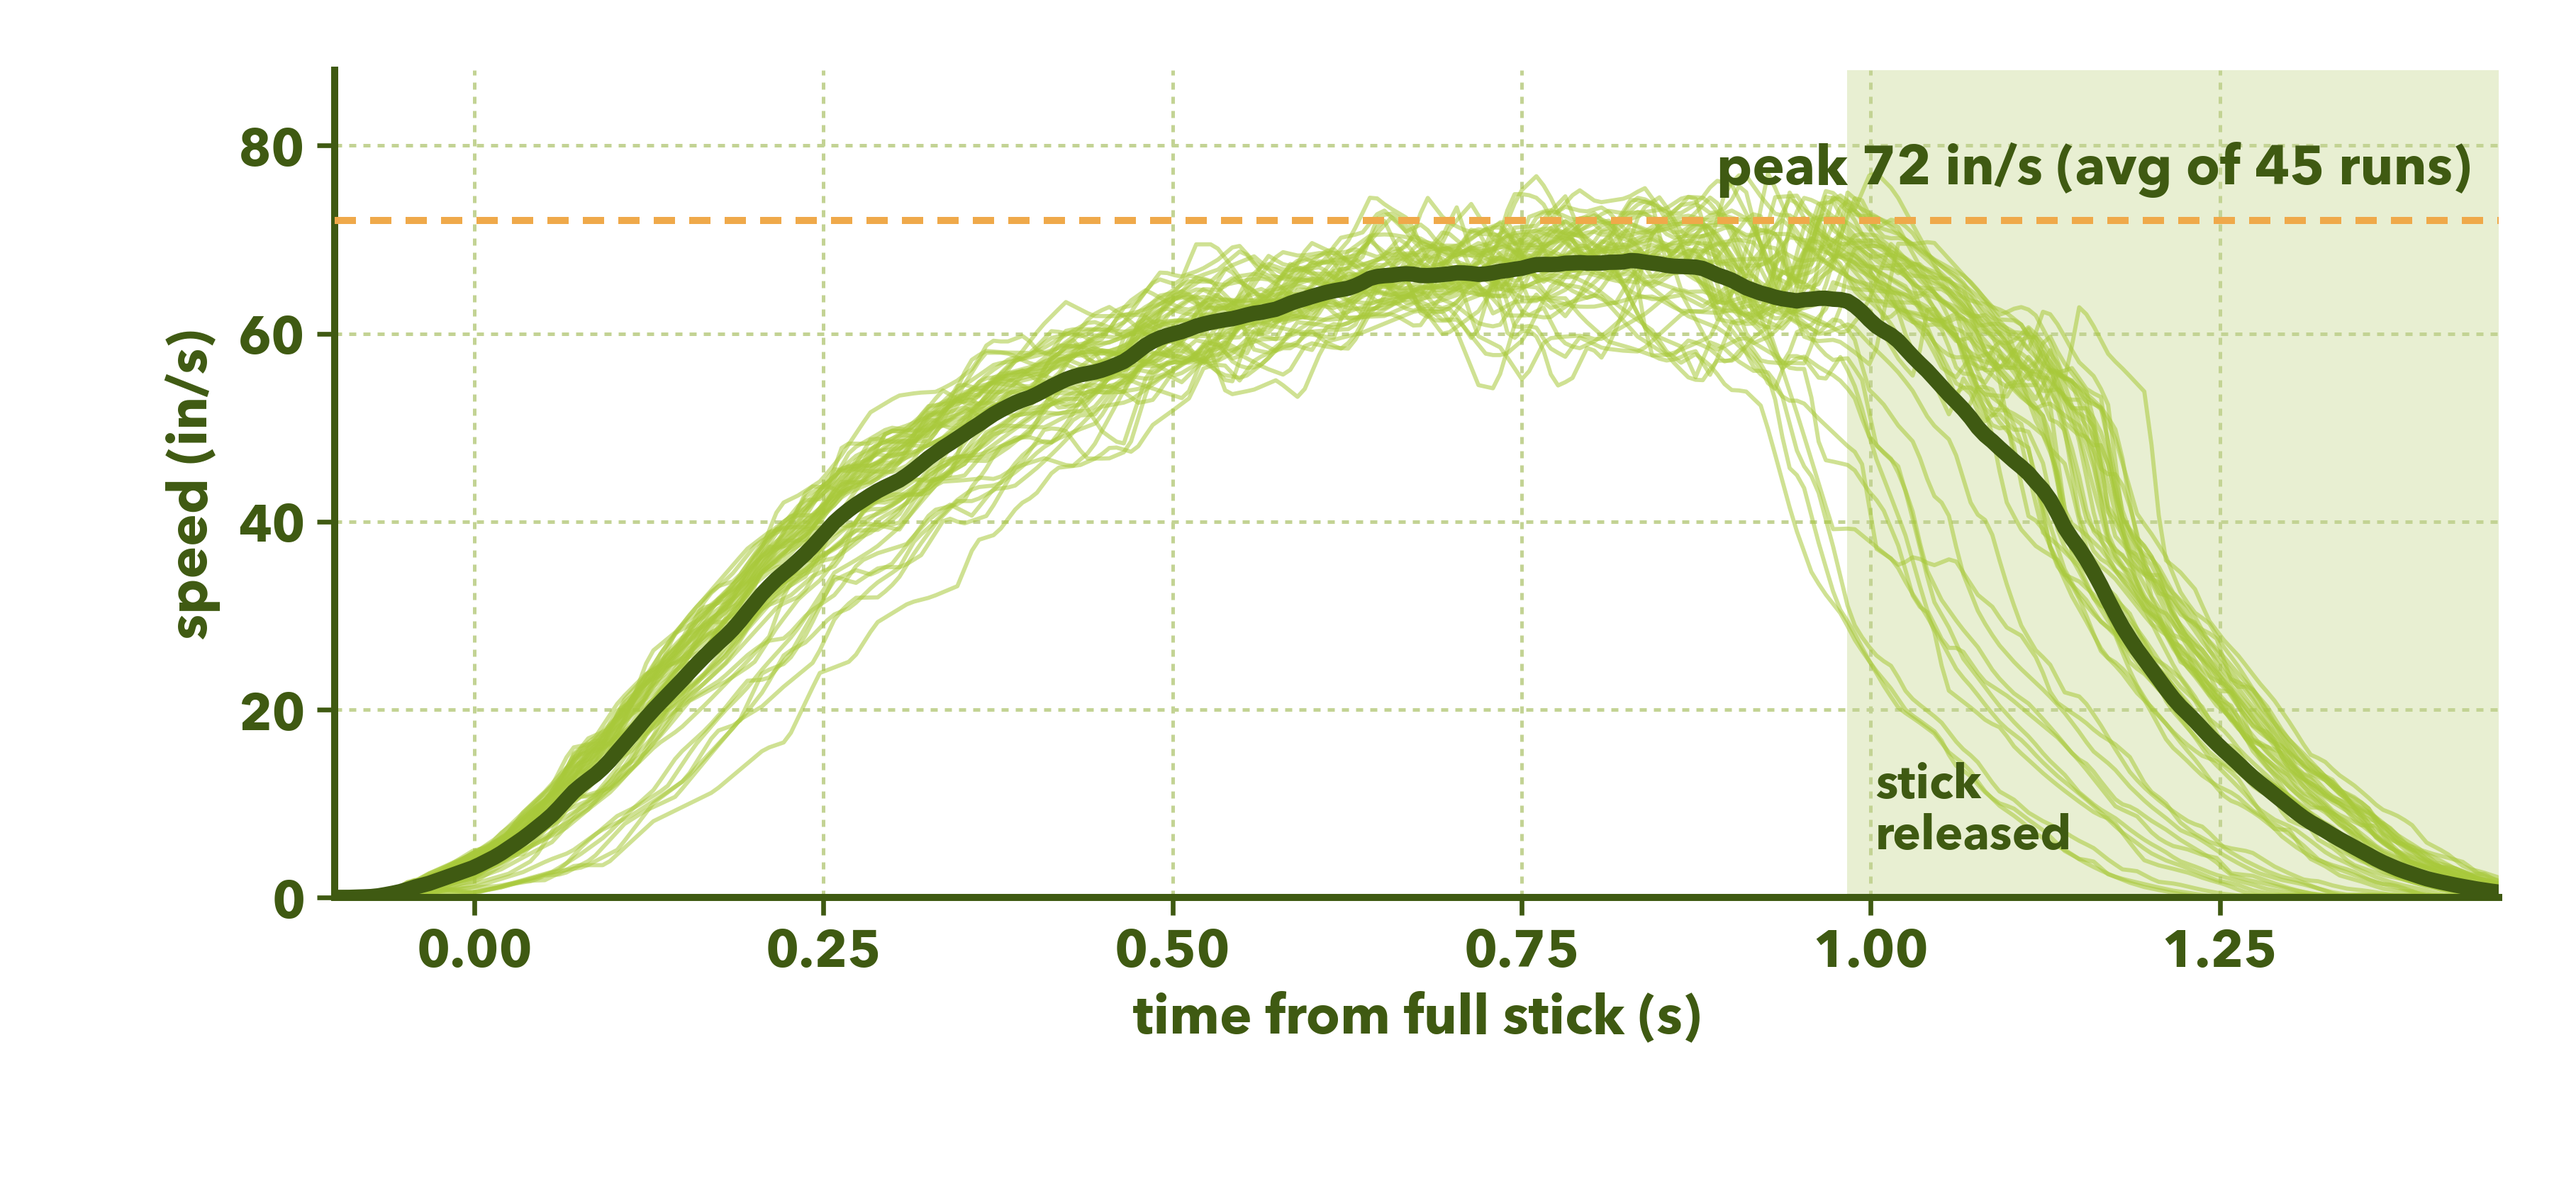
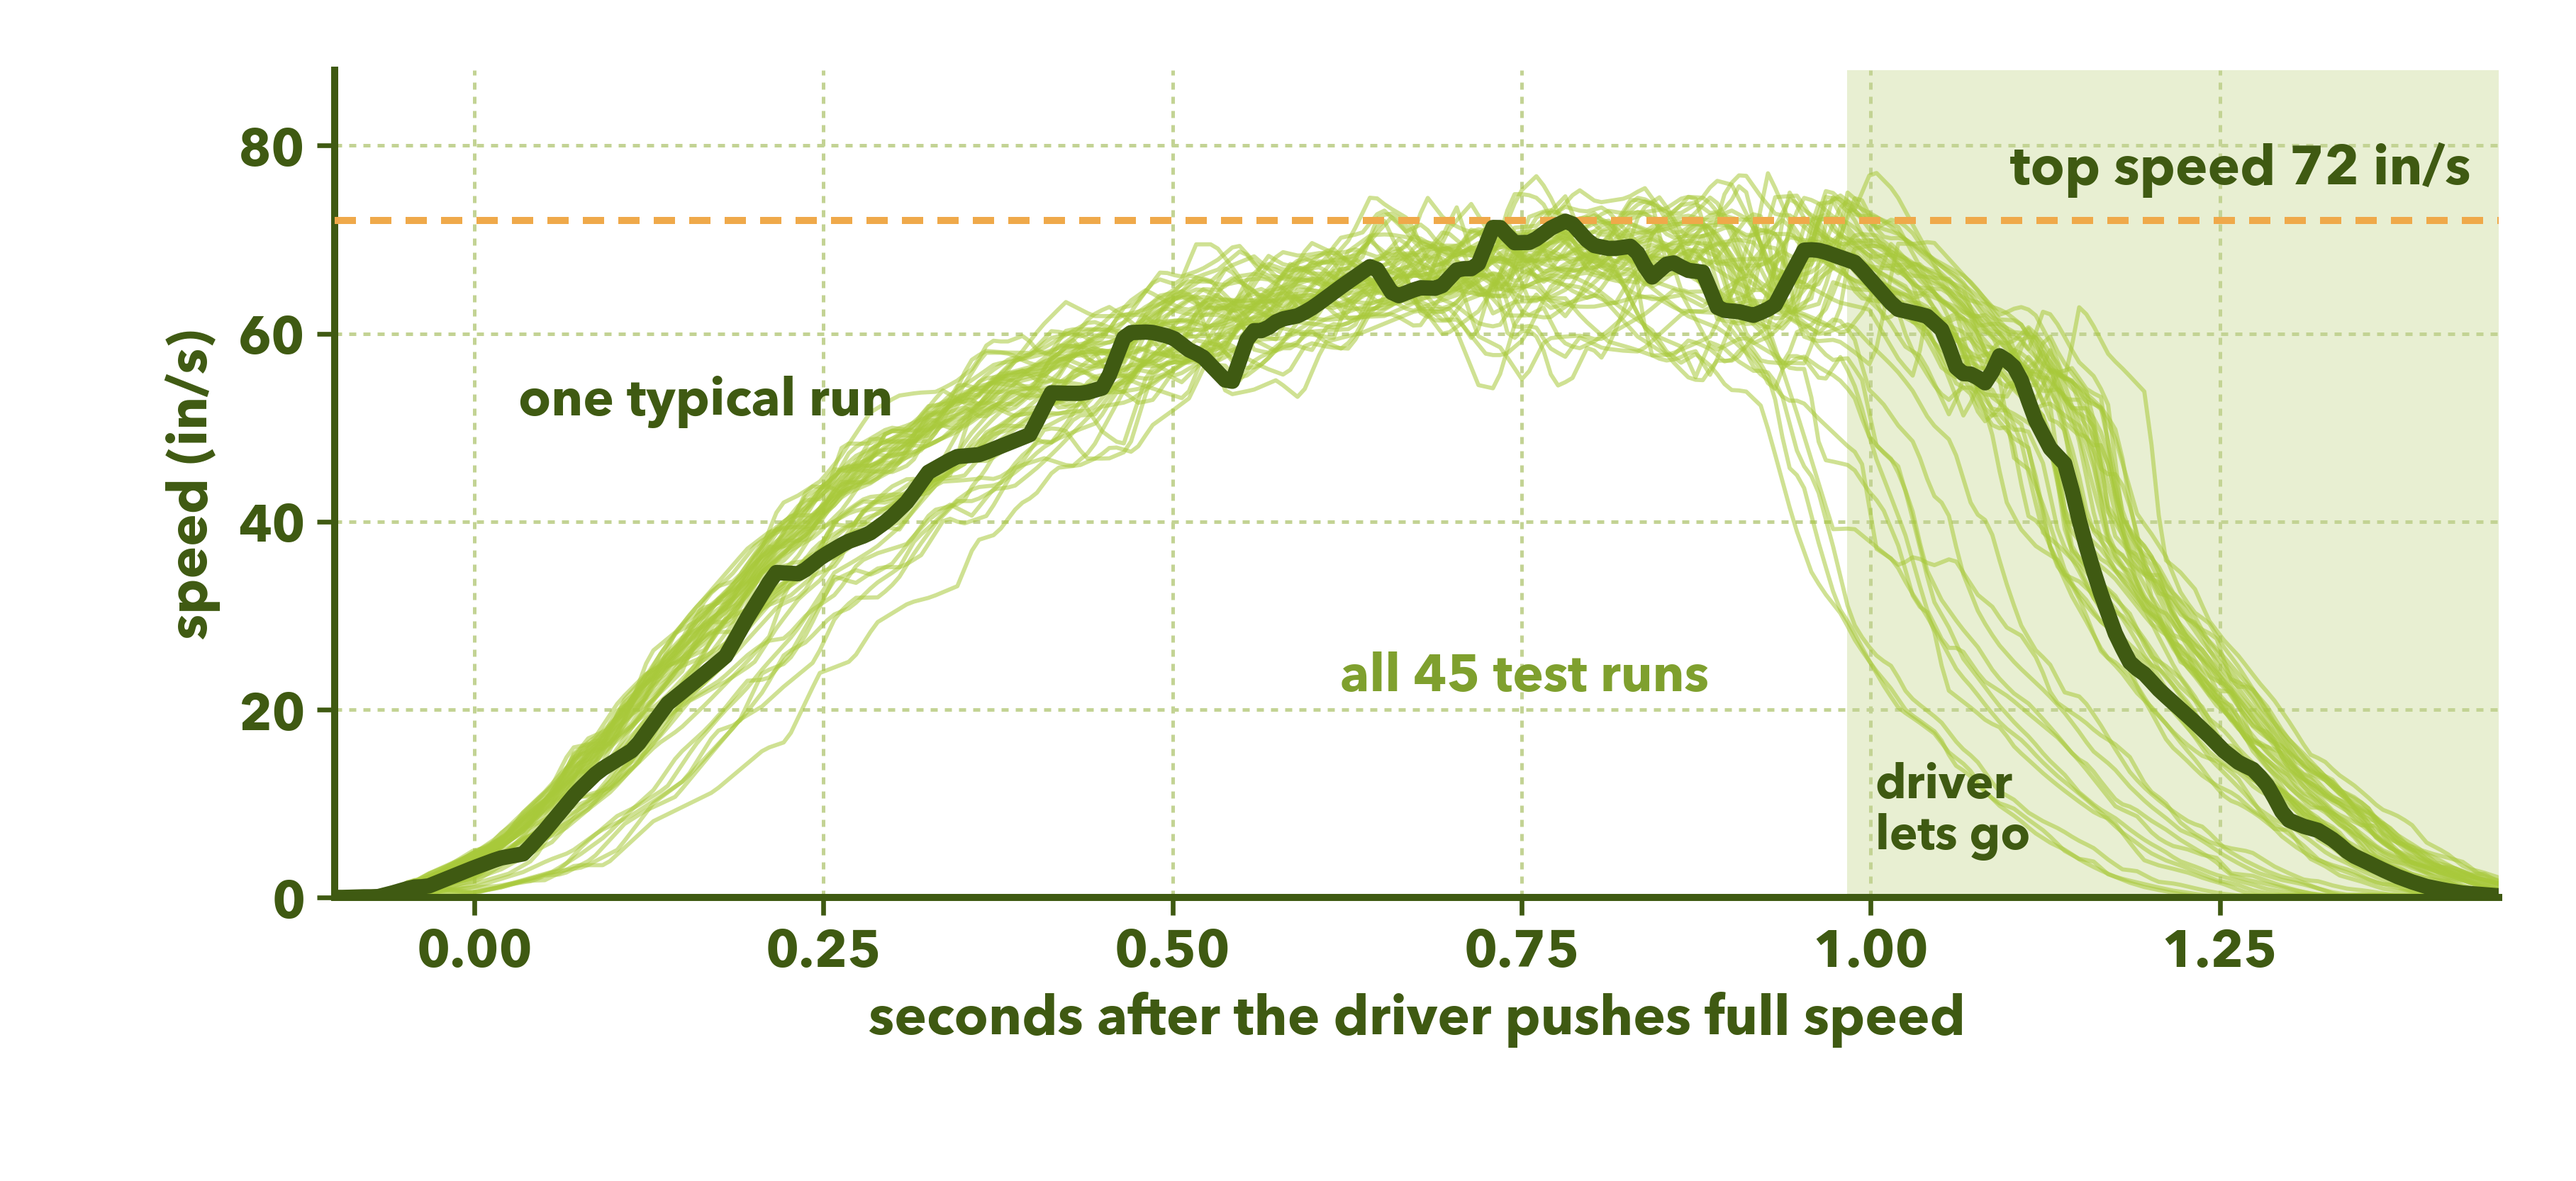
Portfolio swerve Step 4 charts: plain-language labels for FTC judges (tool)
Speed chart: one typical run (the median-top-speed run, 72.1 in/s) drawn bold instead of the
time-averaged curve, which peaked ~5 in/s under the per-run top speed and read as a contradiction;
labels 'seconds after the driver pushes full speed' / 'driver lets go'.
Iterate chart: before / after bars of the same metric (12.0 vs 7.3 deg/s, n=15 / 10, 39% less),
no tuning jargon. Data and statistics unchanged.

diff --git a/tools/portfolio/swerve/speed_testing.py b/tools/portfolio/swerve/speed_testing.py
@@ -65,12 +65,15 @@ ax = fig.add_axes([0.13, 0.24, 0.84, 0.70])
 grid_t = np.linspace(-0.1, 1.45, 300)
 curves = np.array([np.interp(grid_t, r["t"], np.nan_to_num(r["sp"]), left=np.nan, right=np.nan) for r in runs])
 for c in curves: ax.plot(grid_t, c, color=LIME, lw=0.35, alpha=0.55, zorder=2)
-ax.plot(grid_t, np.nanmean(curves, axis=0), color=DARK, lw=1.3, zorder=4, solid_capstyle="round")
+typ = int(np.argmin(np.abs(peak - np.median(peak))))   # the run whose top speed is the median one
+ax.plot(grid_t, curves[typ], color=DARK, lw=1.3, zorder=4, solid_capstyle="round")
+ax.text(0.30, 50, "one typical run", fontsize=4.4, color=DARK, fontweight="bold", ha="right", va="bottom")
+ax.text(0.62, 22, f"all {len(runs)} test runs", fontsize=4.4, color="#7FA02E", fontweight="bold", ha="left")
 ax.axhline(peak.mean(), color=ORANGE, lw=0.6, ls=(0, (3, 2)), zorder=3)
-ax.text(1.43, peak.mean() + 2.5, f"peak {peak.mean():.0f} in/s (avg of {len(runs)} runs)", ha="right", va="bottom", fontsize=4.6, color=DARK, fontweight="bold")
+ax.text(1.43, peak.mean() + 2.5, f"top speed {peak.mean():.0f} in/s", ha="right", va="bottom", fontsize=4.6, color=DARK, fontweight="bold")
 rel = np.mean([r["rel"] for r in runs])
 ax.axvspan(rel, 1.45, color=FILL, alpha=0.6, lw=0, zorder=1)
-ax.text(rel + 0.02, 4, "stick\nreleased", fontsize=4.0, color=DARK, va="bottom", linespacing=1.1)
+ax.text(rel + 0.02, 4, "driver\nlets go", fontsize=4.0, color=DARK, va="bottom", linespacing=1.1)
 ax.set_xlim(-0.1, 1.45); ax.set_ylim(0, 88)
 ax.set_xticks([0, 0.25, 0.5, 0.75, 1.0, 1.25]); ax.set_yticks([0, 20, 40, 60, 80])
 ax.grid(True, color=GRID, lw=0.3, ls=(0, (2, 2)))
@@ -78,24 +81,26 @@ for s in ("top", "right"): ax.spines[s].set_visible(False)
 for s in ("left", "bottom"): ax.spines[s].set_color(DARK); ax.spines[s].set_linewidth(0.6)
 ax.tick_params(colors=DARK, labelsize=4.4, length=1.5, width=0.4, pad=1)
 for tl in ax.get_xticklabels() + ax.get_yticklabels(): tl.set_fontweight("bold")
-ax.set_xlabel("time from full stick (s)", fontsize=4.6, color=DARK, fontweight="bold", labelpad=1)
+ax.set_xlabel("seconds after the driver pushes full speed", fontsize=4.6, color=DARK, fontweight="bold", labelpad=1)
 ax.set_ylabel("speed (in/s)", fontsize=4.6, color=DARK, fontweight="bold", labelpad=1.5)
 fig.savefig(os.path.join(out, "swerve_speed_vs_time.png"), transparent=True); plt.close(fig)
 
-# ---- chart 2: iterate, steering floor A/B ----
+# ---- chart 2: iterate, plain before / after for judges ----
 fig = plt.figure(figsize=(218 / 72, 50 / 72), dpi=1200)
-ax = fig.add_axes([0.25, 0.30, 0.72, 0.62])
+ax = fig.add_axes([0.14, 0.30, 0.62, 0.66])
 rng = np.random.default_rng(3)
-for yv, arr, col, lab in ((1, A, "#9DB55A", "floor 0.60 (old)"), (0, B, DARK, "floor 0.80 (shipped)")):
-    ax.scatter(arr, yv + rng.uniform(-0.13, 0.13, len(arr)), s=5, color=col, edgecolor="white", linewidth=0.4, zorder=3)
-    ax.plot([arr.mean()] * 2, [yv - 0.3, yv + 0.3], color=ORANGE, lw=1.1, zorder=4, solid_capstyle="round")
-    ax.text(-0.02, yv, f"{lab}\nmean {arr.mean():.1f}, n={len(arr)}", transform=ax.get_yaxis_transform(), ha="right", va="center",
-            fontsize=4.2, color=DARK, fontweight="bold", linespacing=1.15)
-ax.set_ylim(-0.55, 1.55); ax.set_yticks([]); ax.set_xlim(0, 22); ax.set_xticks([0, 5, 10, 15, 20])
-ax.grid(True, axis="x", color=GRID, lw=0.3, ls=(0, (2, 2)))
-for s in ("top", "right", "left"): ax.spines[s].set_visible(False)
+for yv, arr, col, lab in ((1, A, "#B9CC86", "BEFORE"), (0, B, DARK, "AFTER")):
+    ax.barh(yv, arr.mean(), height=0.62, color=col, zorder=2)
+    ax.text(-0.02, yv, lab, transform=ax.get_yaxis_transform(), ha="right", va="center", fontsize=5.2, color=DARK, fontweight="bold")
+    ax.text(arr.mean() + 0.3, yv, f"{arr.mean():.1f}\u00b0/s  ({len(arr)} runs)", ha="left", va="center", fontsize=5.0, color=DARK, fontweight="bold")
+cut = (A.mean() - B.mean()) / A.mean()
+ax.text(0.985, 0.62, f"{cut:.0%}\nless wobble", transform=fig.transFigure, ha="right", va="center", fontsize=7.0, color=ORANGE, fontweight="bold", linespacing=0.95)
+ax.set_ylim(-0.6, 1.6); ax.set_yticks([]); ax.set_xlim(0, 16); ax.set_xticks([0, 5, 10, 15])
+ax.grid(True, axis="x", color=GRID, lw=0.3, ls=(0, (2, 2))); ax.set_axisbelow(True)
+for sp_ in ("top", "right", "left"): ax.spines[sp_].set_visible(False)
 ax.spines["bottom"].set_color(DARK); ax.spines["bottom"].set_linewidth(0.6)
 ax.tick_params(colors=DARK, labelsize=4.4, length=1.5, width=0.4, pad=1)
 for tl in ax.get_xticklabels(): tl.set_fontweight("bold")
-ax.set_xlabel(f"chassis wobble at full speed (deg/s yaw)  ·  \u2212{abs(B.mean() - A.mean()):.1f} deg/s, p = {p:.4f}", fontsize=4.4, color=DARK, fontweight="bold", labelpad=1)
+ax.set_xlabel("robot twisting off course at top speed (\u00b0/s, lower is better)", fontsize=4.4, color=DARK, fontweight="bold", labelpad=1)
 fig.savefig(os.path.join(out, "swerve_floor_ab.png"), transparent=True); plt.close(fig)
+print(f"cut {cut:.1%}; typical run peak {peak[typ]:.1f}")
